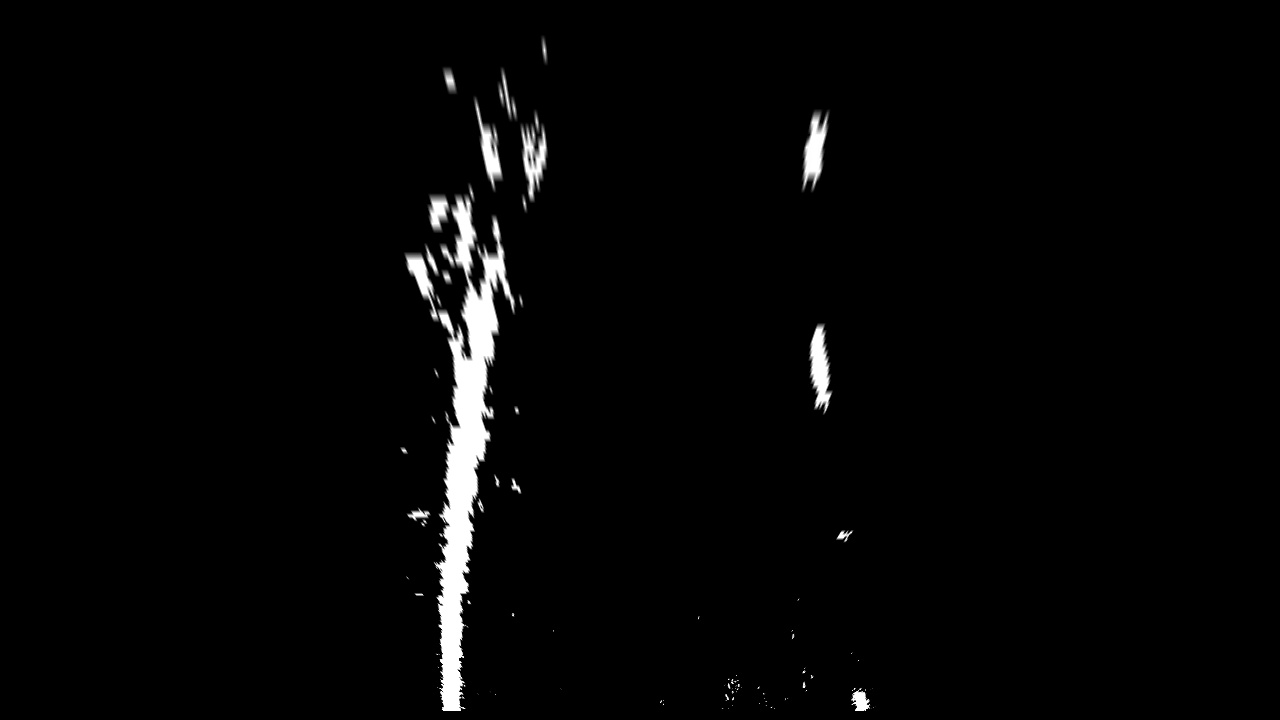
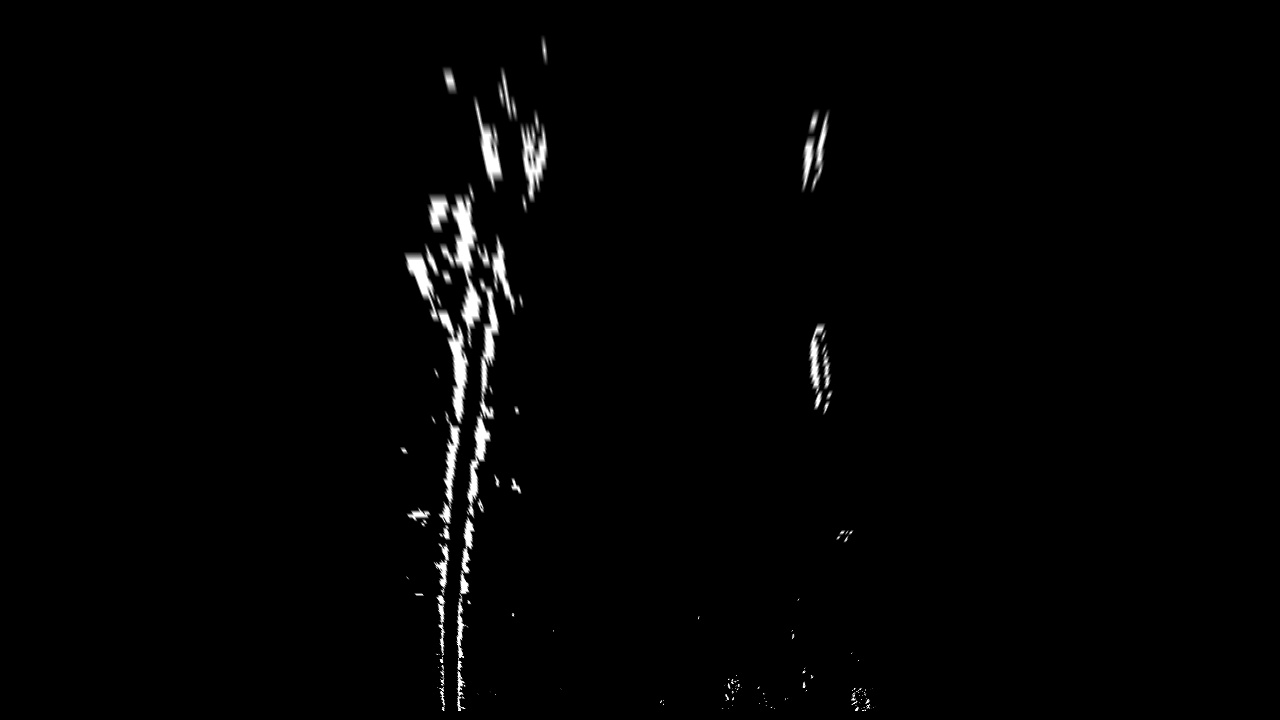
adjust thresholds

diff --git a/lanefinder/transform.py b/lanefinder/transform.py
@@ -108,7 +108,7 @@ def combined_threshold(img, debug=False):
     """
     mag = grad_thresholding(img, thresh_mag=(50, 200), kernel_size=5)
     dir = grad_thresholding(img, thresh_dir=(np.pi/9, np.pi/3), kernel_size=9)
-    sat = color_thresholding(img, thresh_s=(80, 255))
+    sat = color_thresholding(img, thresh_s=(80, 150))
     hue = color_thresholding(img, thresh_h=(15, 100))
 
     mask = hue * sat + mag * dir
